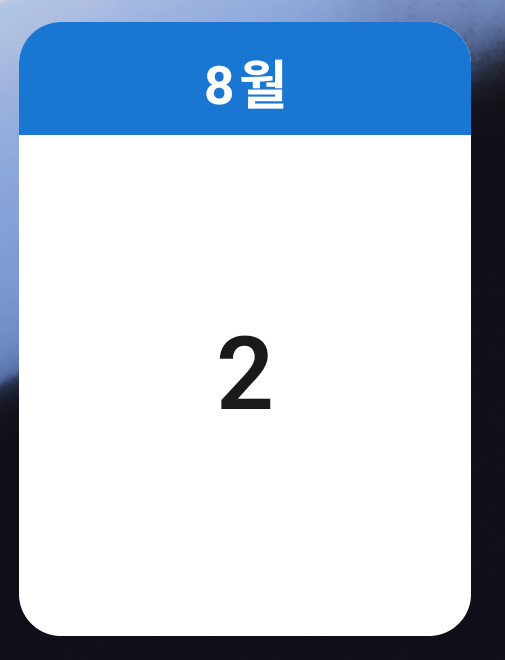
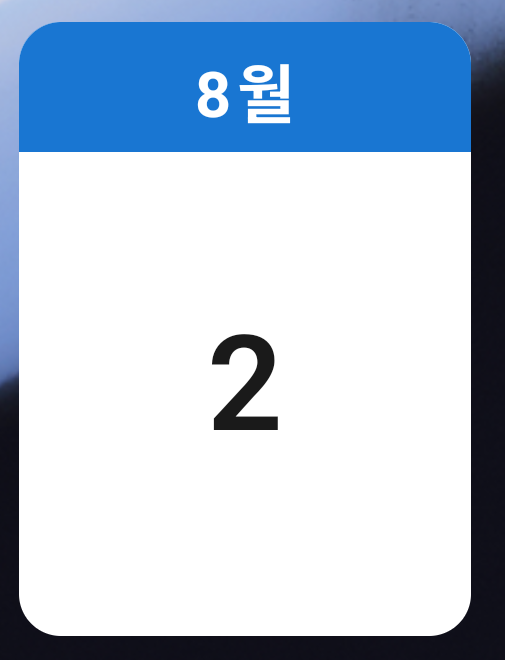
fix(one-moon-date): 위젯 최소 크기에서도 텍스트가 박스를 채우도록 크기 상향
최소 크기 기준 월 11→15sp, 일 18→30sp(1x1) / 월 20→28sp, 일 48→60sp(2x2)로
상향. 음력 달력 사용자층이 고연령대라 가장 작은 위젯에서도 숫자가 잘 보여야
한다는 피드백 반영. 비례 계산 로직(WidgetTextSizeCalculator)은 그대로 두고
min/max sp 값만 조정했다. 1x1 계열의 MAX와 2x2 계열의 MIN을 동일하게 맞춰
두 위젯 간 전환 지점에서 크기가 자연스럽게 이어지도록 했다.

Claude-Session: https://claude.ai/code/session_01NfeQ2wM8uEo5yYH87fVpVh

Changed region(s): [[0.0297, 0.0909, 0.9505, 0.2424], [0.4158, 0.4848, 0.5644, 0.6667]]

diff --git a/apps/one-moon-date/android/app/src/main/java/com/onemoondate/widget/LunarWidgetProvider.java b/apps/one-moon-date/android/app/src/main/java/com/onemoondate/widget/LunarWidgetProvider.java
@@ -31,12 +31,13 @@ public class LunarWidgetProvider extends AppWidgetProvider {
 
     // widget_info.xml의 minWidth/maxResizeWidth와 일치 — 런처마다 "1x1" 실제 렌더 크기가 달라
     // 고정 sp 대신 이 범위 안에서 텍스트 크기를 비례 계산한다.
+    // 음력 달력 사용자층이 고연령대라 최소 크기에서도 숫자가 박스를 거의 채우도록 크게 잡는다.
     private static final int MIN_CELL_DP = 40;
     private static final int MAX_CELL_DP = 180;
-    private static final float MIN_MONTH_SP = 11f;
-    private static final float MAX_MONTH_SP = 24f;
-    private static final float MIN_DAY_SP = 18f;
-    private static final float MAX_DAY_SP = 48f;
+    private static final float MIN_MONTH_SP = 15f;
+    private static final float MAX_MONTH_SP = 28f;
+    private static final float MIN_DAY_SP = 30f;
+    private static final float MAX_DAY_SP = 60f;
 
     @Override
     public void onUpdate(Context context, AppWidgetManager appWidgetManager, int[] appWidgetIds) {

diff --git a/apps/one-moon-date/android/app/src/main/java/com/onemoondate/widget/LunarWidgetLargeProvider.java b/apps/one-moon-date/android/app/src/main/java/com/onemoondate/widget/LunarWidgetLargeProvider.java
@@ -30,12 +30,13 @@ public class LunarWidgetLargeProvider extends AppWidgetProvider {
     private static final String ASYNC_STORAGE_PREFS_NAME = "ReactNativeAsyncStorage";
 
     // widget_info_large.xml의 minWidth/maxResizeWidth와 일치
+    // MIN 값은 LunarWidgetProvider의 MAX 값과 맞춰 1x1→2x2 전환 지점에서 크기가 자연스럽게 이어지도록 한다.
     private static final int MIN_CELL_DP = 110;
     private static final int MAX_CELL_DP = 300;
-    private static final float MIN_MONTH_SP = 20f;
-    private static final float MAX_MONTH_SP = 34f;
-    private static final float MIN_DAY_SP = 48f;
-    private static final float MAX_DAY_SP = 96f;
+    private static final float MIN_MONTH_SP = 28f;
+    private static final float MAX_MONTH_SP = 40f;
+    private static final float MIN_DAY_SP = 60f;
+    private static final float MAX_DAY_SP = 110f;
 
     @Override
     public void onUpdate(Context context, AppWidgetManager appWidgetManager, int[] appWidgetIds) {
